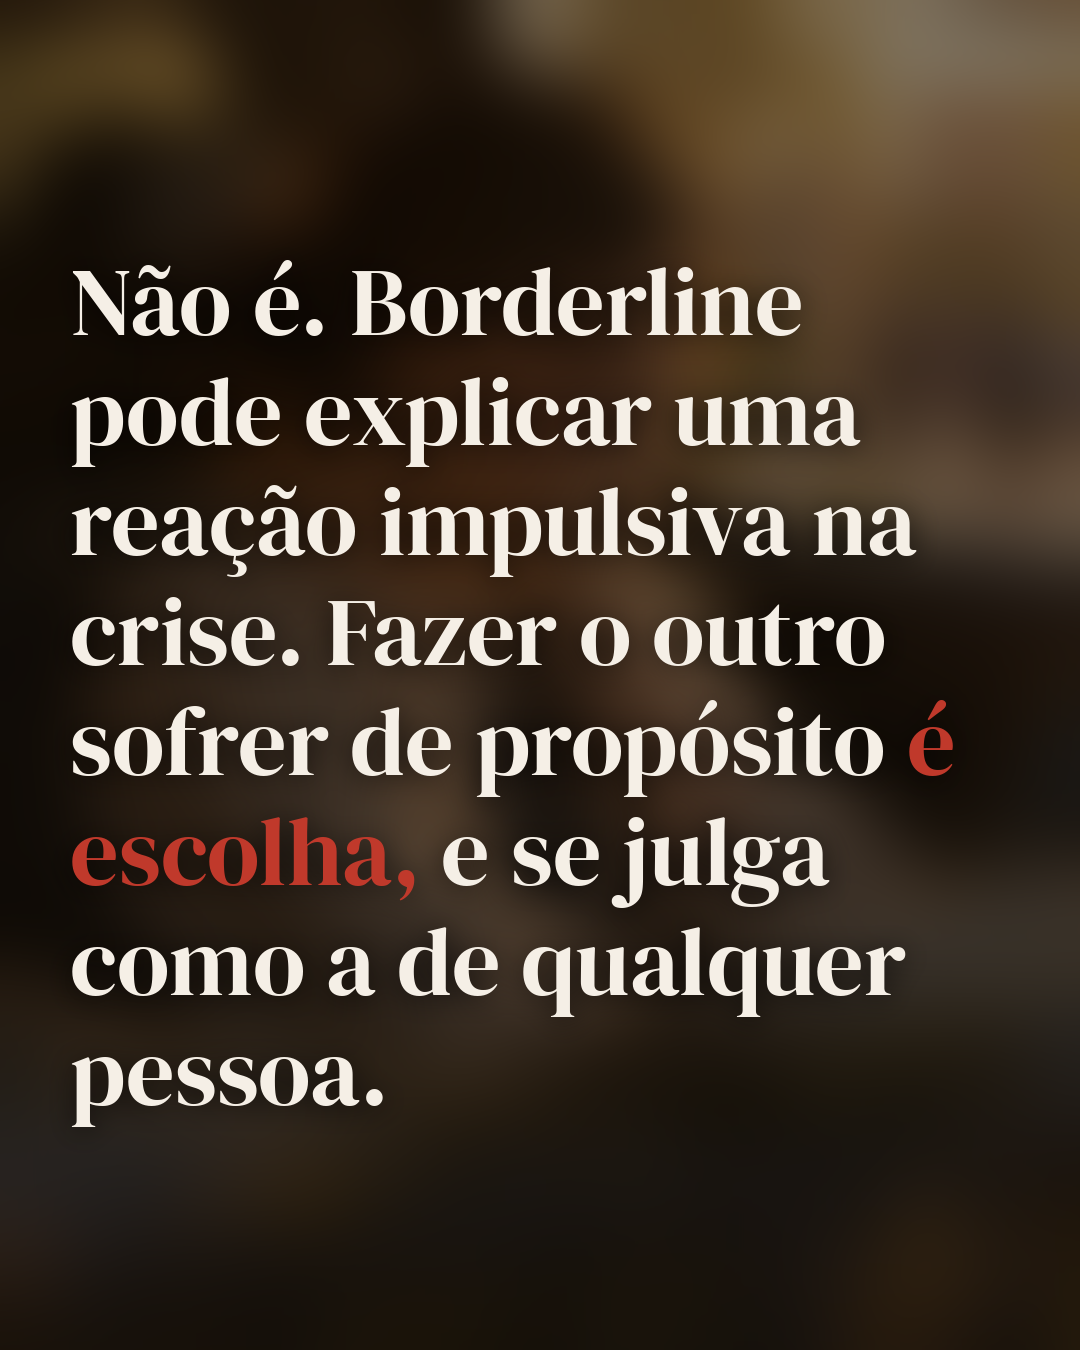
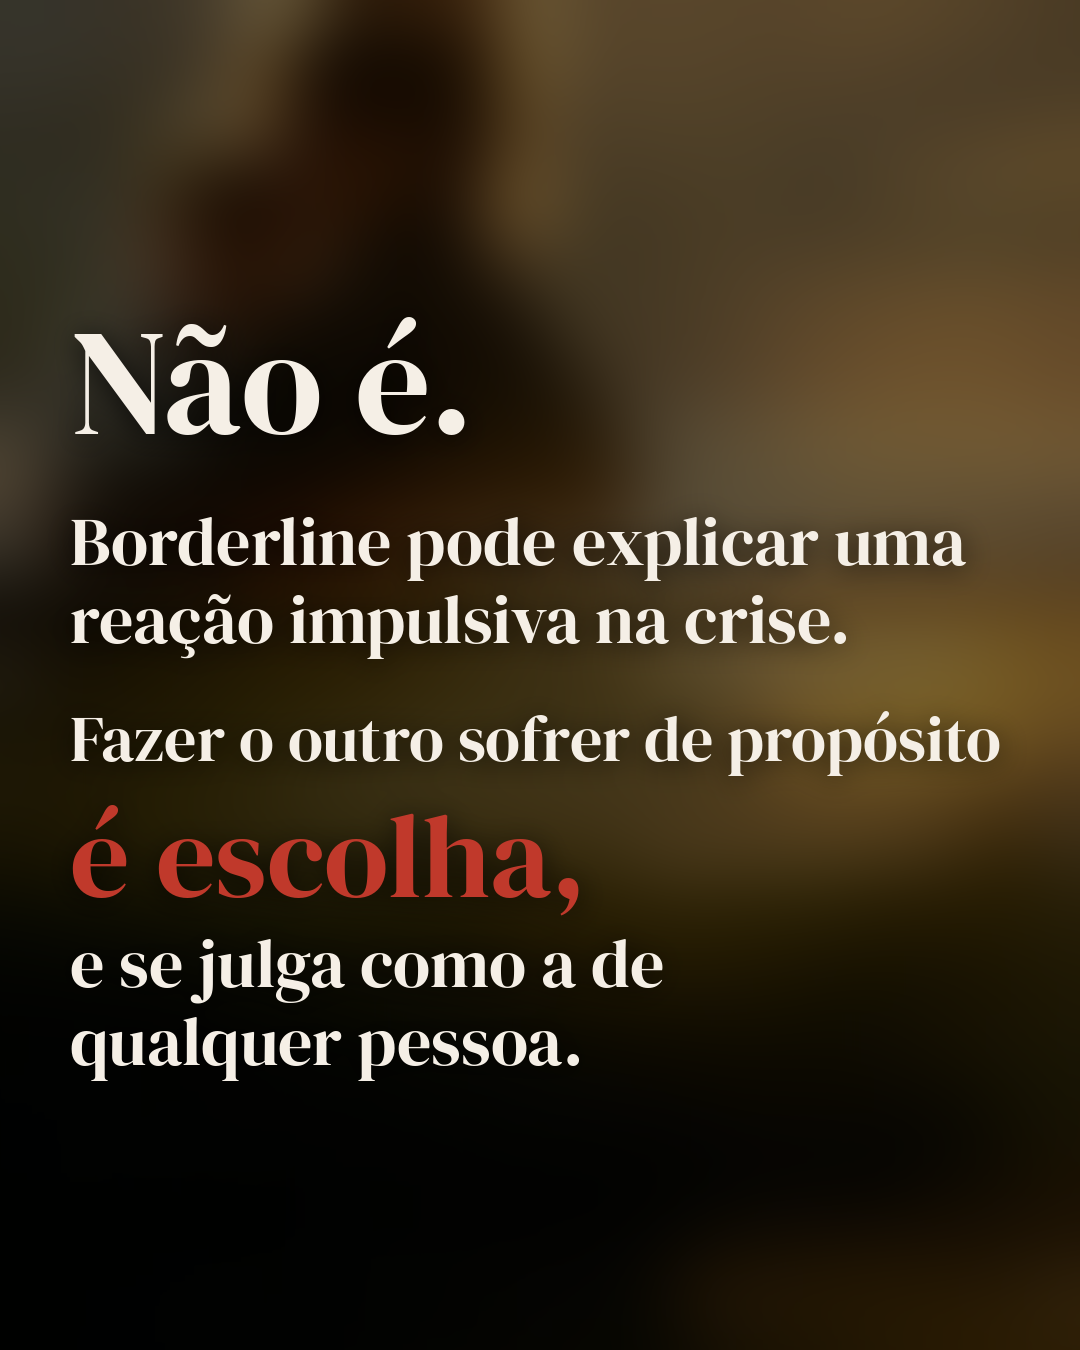
Carrossel mãe borderline: hierarquia em níveis, quebras por sentido e capa real nos fundos
Claude-Session: https://claude.ai/code/session_01Y1aNYrQAZE6rQhxearLeeb

diff --git a/carrosseis/mae-borderline-regua/gerar.py b/carrosseis/mae-borderline-regua/gerar.py
@@ -26,8 +26,12 @@ def top_gradient(im, a_top, end):
         for x in range(W): px[x, y] = a
     return Image.composite(Image.new('RGB', (W, H)), im, ov)
 
-def bg_foto(nome, a=.75, end=.55):
+def bg_foto(nome, a=.75, end=.55, desce=0):
     im = cover(Image.open(os.path.join(F, nome)).convert('RGB'))
+    if desce:
+        # desce a foto para a cabeça da pessoa não ficar sob o texto; o topo vira extensão espelhada e desfocada, coberta pelo gradiente
+        topo = im.crop((0, 0, W, desce)).transpose(Image.FLIP_TOP_BOTTOM).filter(ImageFilter.GaussianBlur(25))
+        novo = Image.new('RGB', (W, H)); novo.paste(im, (0, desce)); novo.paste(topo, (0, 0)); im = novo
     return top_gradient(darken(im, .35), a, end)
 
 def capa_baixo():
@@ -39,95 +43,103 @@ def bg_blur():
     return darken(capa_baixo().filter(ImageFilter.GaussianBlur(35)), .5)
 
 def bg_07():
-    return top_gradient(capa_baixo(), .45, .55)
+    # capa sem título: foto inteira, descida para mãe e filho caírem no terço de baixo
+    im = cover(Image.open(CAPA).convert('RGB'))
+    desce = 330
+    topo = im.crop((0, 0, W, desce)).transpose(Image.FLIP_TOP_BOTTOM).filter(ImageFilter.GaussianBlur(30))
+    novo = Image.new('RGB', (W, H)); novo.paste(im, (0, desce)); novo.paste(topo, (0, 0))
+    return top_gradient(darken(novo, .12), .88, .66)
 
-def parse(s):
-    toks, red = [], False
-    for w in s.replace('[', ' [ ').replace(']', ' ] ').split():
-        if w == '[': red = True
-        elif w == ']': red = False
-        else: toks.append((w, red))
-    # cola pontuação que ficou solta depois do colchete
-    out = []
-    for w, r in toks:
-        if out and w in ',.:;' : out[-1] = (out[-1][0], out[-1][1], out[-1][2] + [(w, r)])
-        else: out.append((w, r, []))
+
+def spans(line):
+    out, red, buf = [], False, ''
+    for ch in line:
+        if ch in '[]':
+            if buf: out.append((buf, red)); buf = ''
+            red = ch == '['
+        else: buf += ch
+    if buf: out.append((buf, red))
     return out
 
-def wrap(par, font, maxw):
-    sp = font.getlength(' ')
-    lines, cur, cw = [], [], 0
-    for w, r, tail in par:
-        ww = font.getlength(w) + sum(font.getlength(t) for t, _ in tail)
-        add = ww if not cur else cw + sp + ww
-        if cur and add > maxw:
-            lines.append(cur); cur, cw = [(w, r, tail)], ww
-        else:
-            cur.append((w, r, tail)); cw = add
-    if cur: lines.append(cur)
-    return lines
-
-def layout(pars, size, gap):
-    font = ImageFont.truetype(FONT, size)
-    lh = round(size * 1.15)
-    blocks, h = [], 0
-    for i, p in enumerate(pars):
-        ls = wrap(parse(p), font, W - 2 * M)
-        blocks.append(ls); h += len(ls) * lh + (gap if i < len(pars) - 1 else 0)
-    return font, lh, blocks, h
-
-def render(nome, bg, pars, pos, max_h, start=96, gap=0):
-    size = start
+def group_metrics(g):
+    size = g['size']
     while True:
-        font, lh, blocks, h = layout(pars, size, round(gap * size))
-        if h <= max_h or size <= 62: break
+        font = ImageFont.truetype(FONT, size)
+        wmax = max(sum(font.getlength(t) for t, _ in spans(l)) for l in g['lines'])
+        if wmax <= W - 2 * M or size <= 62: break
         size -= 2
-    assert size >= 62
-    im = bg.copy(); d = ImageDraw.Draw(im)
+    assert size >= 62, g
+    return font, size, round(size * 1.15)
+
+def render(nome, bg, groups, pos):
+    ms = [group_metrics(g) for g in groups]
+    h = sum(len(g['lines']) * lh + g.get('gap', 0) for g, (_, _, lh) in zip(groups, ms)) - groups[-1].get('gap', 0)
+    im = bg.copy()
     sh = Image.new('L', (W, H), 0); ds = ImageDraw.Draw(sh)
-    asc, desc = font.getmetrics()
-    y = M if pos == 'top' else (H - h) // 2
-    sp = font.getlength(' ')
-    minx, maxx, miny, maxy = W, 0, H, 0
-    for bi, ls in enumerate(blocks):
-        for line in ls:
+    y0 = M if pos == 'top' else (H - h) // 2
+    ops, y = [], y0
+    for g, (font, size, lh) in zip(groups, ms):
+        # compensa o respiro do topo da fonte para alinhar a tinta à margem
+        for l in g['lines']:
             x = M
-            for i, (w, r, tail) in enumerate(line):
-                if i: x += sp
-                for t, rr in [(w, r)] + tail:
-                    d.text((x, y), t, font=font, fill=RED if rr else OFF)
-                    ds.text((x, y + 3), t, font=font, fill=255)
-                    bb = d.textbbox((x, y), t, font=font)
-                    minx, maxx, miny, maxy = min(minx, bb[0]), max(maxx, bb[2]), min(miny, bb[1]), max(maxy, bb[3])
-                    x += font.getlength(t)
+            for t, r in spans(l):
+                ops.append((x, y, t, font, RED if r else OFF)); x += font.getlength(t)
             y += lh
-        y += round(gap * size)
-    # sombra suave só para leitura sobre áreas claras, aplicada por baixo do texto
-    txt = im; base = bg.copy()
+        y += g.get('gap', 0)
+    for x, y, t, font, c in ops: ds.text((x, y + 3), t, font=font, fill=255)
     sh = sh.filter(ImageFilter.GaussianBlur(14)).point(lambda v: int(v * .7))
-    base = Image.composite(Image.new('RGB', (W, H)), base, sh)
-    mask = Image.new('L', (W, H), 0); dm = ImageDraw.Draw(mask)
-    im = base; d = ImageDraw.Draw(im); y = M if pos == 'top' else (H - h) // 2
-    for bi, ls in enumerate(blocks):
-        for line in ls:
-            x = M
-            for i, (w, r, tail) in enumerate(line):
-                if i: x += sp
-                for t, rr in [(w, r)] + tail:
-                    d.text((x, y), t, font=font, fill=RED if rr else OFF)
-                    x += font.getlength(t)
-            y += lh
-        y += round(gap * size)
+    im = Image.composite(Image.new('RGB', (W, H)), im, sh)
+    d = ImageDraw.Draw(im)
+    minx = miny = 9999; maxx = maxy = 0
+    for x, y, t, font, c in ops:
+        d.text((x, y), t, font=font, fill=c)
+        bb = d.textbbox((x, y), t, font=font)
+        minx, miny, maxx, maxy = min(minx, bb[0]), min(miny, bb[1]), max(maxx, bb[2]), max(maxy, bb[3])
     im.save(os.path.join(D, nome))
     ok = minx >= M and maxx <= W - M and miny >= M and maxy <= H - M
-    log.append(f'{nome}: fonte {size}px, tinta x {minx}-{maxx}, y {miny}-{maxy}, margens {"OK" if ok else "FALHA"}')
+    log.append(f'{nome}: tamanhos {[s for _, s, _ in ms]}px, tinta x {minx:.0f}-{maxx:.0f}, y {miny}-{maxy}, margens {"OK" if ok else "FALHA"}')
 
-TOP = int(H * .45) - M
-render('02.png', bg_foto('slide2.png', .9, .68), ['Leva o filho na escola todo dia. Num dia ruim, chorou no carro antes de entrar. A família do ex viu e decretou: borderline [não tem condição de criar filho.]'], 'top', TOP)
-render('03.png', bg_blur(), ['Ninguém olhou para os outros dias do ano. Diagnóstico não diz se alguém é boa mãe. [O cuidado diz.]'], 'mid', H - 2 * M)
-render('04.png', bg_foto('slide4.png'), ['Outra mãe atrasou duas horas [de propósito] para entregar o filho, só para o pai esperar. E disseram: é o borderline.'], 'top', TOP)
-render('05.png', bg_blur(), ['Não é. Borderline pode explicar uma reação impulsiva na crise. Fazer o outro sofrer de propósito [é escolha,] e se julga como a de qualquer pessoa.'], 'mid', H - 2 * M)
-render('06.png', bg_blur(), ['[O que pesa de verdade:]', 'A criança está segura?', 'Existe rede de apoio?', 'A impulsividade traz risco?', 'Ela segue o tratamento e tem acesso a ele?'], 'mid', H - 2 * M, start=84, gap=.35)
-render('07.png', bg_07(), ['Toda mãe erra. Quem tem borderline não merece régua mais dura. [Nem mais leve.] Manda para a mãe que tem medo de contar o diagnóstico.'], 'top', int(H * .6))
+G = lambda size, gap, *lines: {'size': size, 'gap': gap, 'lines': list(lines)}
+
+render('02.png', bg_foto('slide2.png', .95, .78, desce=230), [
+    G(66, 34, 'Leva o filho na escola todo dia.', 'Num dia ruim, chorou no carro', 'antes de entrar.'),
+    G(66, 22, 'A família do ex viu e decretou:'),
+    G(92, 0, 'borderline [não tem', '[condição de criar filho.]'),
+], 'top')
+
+render('03.png', bg_blur(), [
+    G(76, 40, 'Ninguém olhou para os', 'outros dias do ano.'),
+    G(76, 56, 'Diagnóstico não diz se', 'alguém é boa mãe.'),
+    G(140, 0, '[O cuidado diz.]'),
+], 'mid')
+
+render('04.png', bg_foto('slide4.png', .85, .62, desce=60), [
+    G(74, 34, 'Outra mãe atrasou duas', 'horas [de propósito] para', 'entregar o filho, só para', 'o pai esperar.'),
+    G(74, 0, 'E disseram:'),
+    G(108, 0, 'é o borderline.'),
+], 'top')
+
+render('05.png', bg_blur(), [
+    G(150, 44, 'Não é.'),
+    G(68, 44, 'Borderline pode explicar uma', 'reação impulsiva na crise.'),
+    G(68, 6, 'Fazer o outro sofrer de propósito'),
+    G(118, 6, '[é escolha,]'),
+    G(68, 0, 'e se julga como a de', 'qualquer pessoa.'),
+], 'mid')
+
+render('06.png', bg_blur(), [
+    G(108, 56, '[O que pesa]', '[de verdade:]'),
+    G(70, 30, 'A criança está segura?'),
+    G(70, 30, 'Existe rede de apoio?'),
+    G(70, 30, 'A impulsividade traz risco?'),
+    G(70, 0, 'Ela segue o tratamento', 'e tem acesso a ele?'),
+], 'mid')
+
+render('07.png', bg_07(), [
+    G(110, 30, 'Toda mãe erra.'),
+    G(72, 0, 'Quem tem borderline não', 'merece régua mais dura.'),
+    G(110, 44, '[Nem mais leve.]'),
+    G(64, 0, 'Manda para a mãe que tem medo', 'de contar o diagnóstico.'),
+], 'top')
 print('PROVISORIO (sem capa.png)' if PROVISORIO else 'capa.png usada')
 print('\n'.join(log))

diff --git a/carrosseis/mae-borderline-regua/LEIA.md b/carrosseis/mae-borderline-regua/LEIA.md
@@ -2,5 +2,4 @@
 
 Slides 02 a 07, 1080x1350. Gerados por `python3 gerar.py`.
 
-Pendente: `fontes/capa.png`. Sem ela, 03, 05, 06 e 07 saem com fundo provisório (recorte de slide2.png).
-Coloque a capa em `fontes/capa.png` e rode o script de novo. Ele troca os fundos sozinho.
+Fundos: capa.png, slide2.png e slide4.png em `fontes/`.
